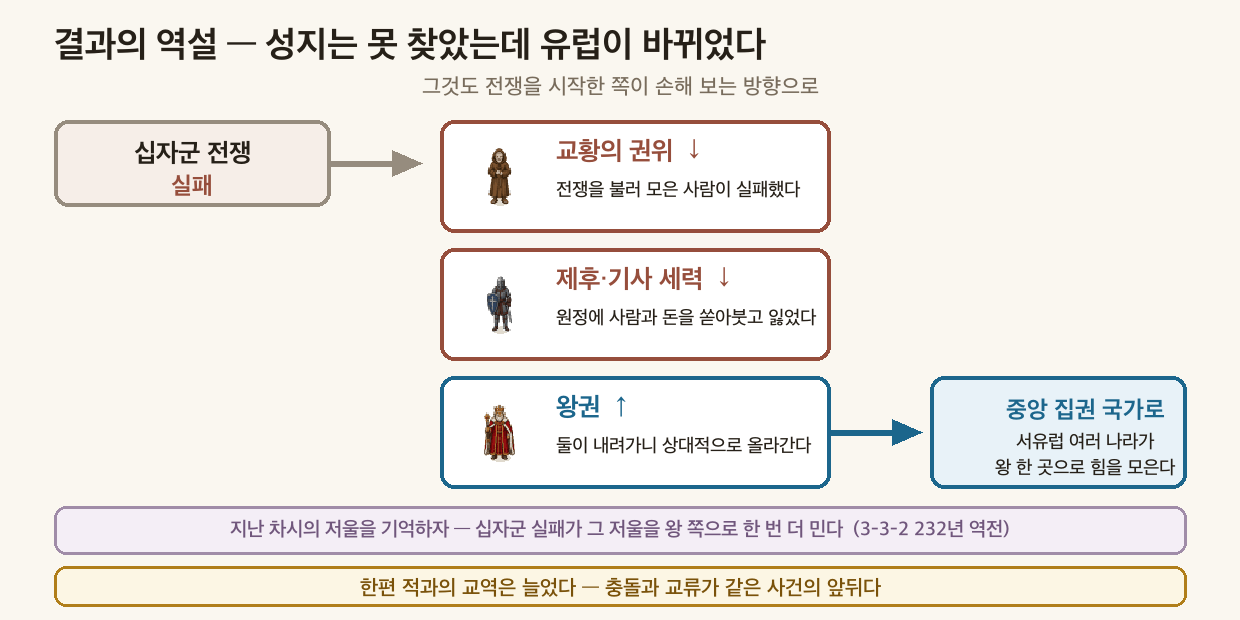
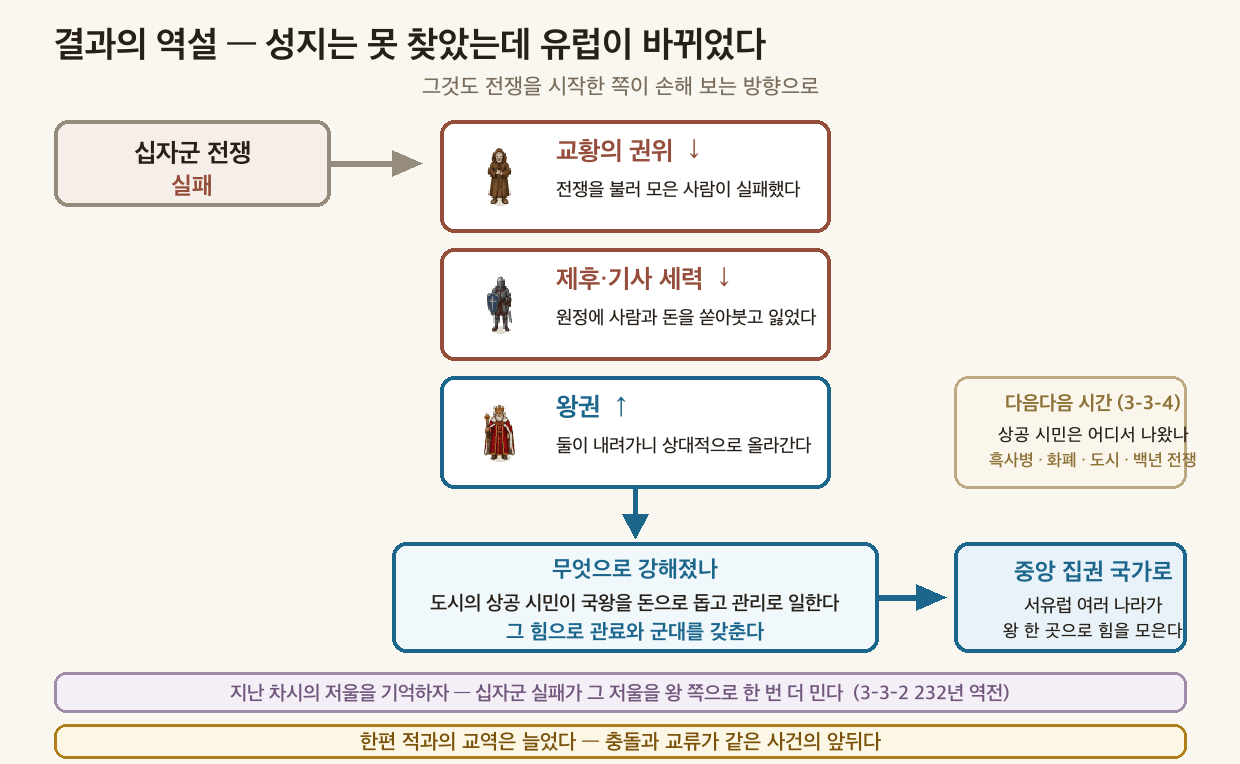
3-3-3 — 4단계 OX 콜아웃 제거 · 5단계 「무엇으로 강해졌나」 신설 (천대현)
■ 4단계 ⚠ OX 단골을 학생 지면에서 뺐다
바로 아래 교과서 슬롯이 "제1차 원정 때의 결과와 전쟁이 끝났을 때의 결과를 각각
찾아 적자"인데 ⚠가 그 답을 먼저 말해 버렸다. 9/11에 슬롯을 신설하면서 이
콜아웃을 그대로 둔 것이 겹침의 원인이다.
→ 교사는 함정을 알되 먼저 말하지 않는다. 학생이 두 결과를 갈라 적은 뒤에 짚는다.
   정답편에는 유지(교사용)하고 "먼저 말하지 말 것"을 명시.

■ 5단계 도식에 「무엇으로 강해졌나」 칸 신설
종전 도식은 왕권 ↑의 설명이 "둘이 내려가니 상대적으로 올라간다" 뿐이었다.
학생은 "그래서 무엇으로" 강해졌는지 모른 채 넘어간다.
R3 = 교과서 p.100 "새롭게 성장한 도시 상공업자들은 국왕을 경제적으로 돕거나
관리로 일하며 세력을 키워 나갔다. 유럽 각국의 국왕은 이들의 지원에 힘입어
관료와 군대를 정비하며 왕권을 강화해 나갔다."
흐름도 고쳤다 — 왕권 → 무엇으로 → 중앙 집권 국가로 한 줄.

⚠ 3-3-4를 선취하지 않는다 — 그 차시가 "상공 시민은 어디서 나왔나"(흑사병·화폐·
   도시·백년 전쟁)를 맡는다. 도식 오른쪽에 「다음다음 시간 (3-3-4)」 예고 칸을
   따로 두어 선을 그었다. 여기서는 결과의 이름까지만.

제작 중 잡은 것 셋: PIL이 마크다운을 모르니 **별표**가 그대로 찍혔다 · 「🔜」가
AppleSDGothicNeo에 없어 두부(⊠)가 됐다 · 비율 0.623으로 상한 0.62를 넘었다(0.616으로).

실측: 셋 다 빈단계 0 · 입담빈 1 · 교과서빈 2 · 이미지 7 · 빈칸 6 · OX 3 · CSS 균형 0
학생본 OX 콜아웃 0건 · 정답편 유지 2건

Claude-Session: https://claude.ai/code/session_01WENst2cudxyR6rXxwWSCeM

Changed region(s): [[0.0306, 0.0306, 0.9806, 1.0]]

diff --git a/worksheets/3-3-3_십자군전쟁_개념편_명시형_정답.html b/worksheets/3-3-3_십자군전쟁_개념편_명시형_정답.html
@@ -977,6 +977,8 @@ table:has(.ox-group) td:first-child { width: 46px; text-align: center; color: #6
 <blockquote>🎙 <strong>200년이야.</strong> 한 번 싸우고 끝난 게 아니라, <strong>할아버지가 갔다가 손자가 또 가는</strong> 일이 여러 차례 되풀이됐어. 지금부터 200년 전이면 조선 시대야. 그런데 그 긴 싸움의 결말이 뭐였을까?</blockquote>
 <br>
 <blockquote>⚠ <strong>OX 2번의 함정이 여기 있다</strong> — <em>"제1차 원정에서 예루살렘을 되찾았으니 목적을 이룬 것"</em>이 아니다. 되찾았다가 <strong>다시 잃었고</strong>, 교과서는 <em>"결국 성지를 회복하지 못하고"</em>로 끝맺는다.</blockquote>
+<blockquote>🔴 <strong>2026-09-16 — 이 ⚠를 학생 지면에서 뺐다 (천대현).</strong> 바로 아래 교과서 슬롯이 <em>"제1차 원정 때의 결과와 전쟁이 끝났을 때의 결과를 각각 찾아 적자"</em>인데, <strong>⚠가 그 답을 먼저 말해 버렸다.</strong> 9/11에 슬롯을 신설하면서 이 콜아웃을 그대로 둔 것이 겹침의 원인이다.</blockquote>
+<blockquote>🎯 <strong>교사는 이 함정을 알고 있되 먼저 말하지 않는다</strong> — 학생이 두 결과를 갈라 적은 «뒤에» 짚는다. 먼저 말하면 자기 눈으로 모순을 보는 자리가 사라진다.</blockquote>
 <br>
 <div class="ws-tb"><div class="ws-tb-tag">📕 교과서 98쪽 · 가운데 문단</div><div class="ws-tb-ask"><strong>제1차 원정 때의 결과</strong>와 <strong>전쟁이 끝났을 때의 결과</strong>를 교과서 문장에서 각각 찾아 적자. 두 결과는 어떻게 다른가?</div></div>
 <blockquote><strong>답</strong>: 제1차 원정 — <em>"예루살렘을 점령하기도 하였다"</em> / 전쟁의 끝 — <em>"결국 성지를 회복하지 못하고 전쟁은 끝이 났다."</em> → <strong>한때 되찾았으나 끝내 지키지 못했다</strong>는 취지.</blockquote>
@@ -995,7 +997,12 @@ table:has(.ox-group) td:first-child { width: 46px; text-align: center; color: #6
 <p>전쟁이 끝나자 유럽 안의 힘의 균형이 바뀌었다. 전쟁을 이끈 ④<span class="blank-filled">교황</span>의 권위는 떨어졌고, 반면 ⑤<span class="blank-filled">왕</span>권은 상대적으로 강해져 서유럽 여러 나라가 <strong>중앙 집권 국가</strong>로 나아갔다.</p>
 <blockquote>(교과서 원문: "전쟁을 이끈 교황의 권위는 떨어졌고, 전쟁에 참여하였던 제후와 기사의 세력도 약해졌다. 반면, 왕권은 상대적으로 강해졌다." — 같은 책 p.98)</blockquote>
 <br>
-<figure class="ws-fig"><img src="images/3-3-3_결과의역설.png" alt="결과의 역설 — 십자군 실패 → 교황 권위 하락·제후와 기사 세력 약화 → 왕권 상대적 강화 → 중앙 집권 국가로." loading="lazy"><figcaption>결과의 역설 — 십자군 실패 → 교황 권위 하락·제후와 기사 세력 약화 → 왕권 상대적 강화 → 중앙 집권 국가로.</figcaption></figure>
+<figure class="ws-fig"><img src="images/3-3-3_결과의역설.png" alt="결과의 역설 — 왕권 ↑ 아래에 «무엇으로 강해졌나» 칸을 더했다." loading="lazy"><figcaption>결과의 역설 — 왕권 ↑ 아래에 «무엇으로 강해졌나» 칸을 더했다.</figcaption></figure>
+<blockquote>🔴 <strong>2026-09-16 「무엇으로 강해졌나」 칸 신설 (천대현)</strong> — 종전 도식은 왕권 ↑의 설명이 <em>"둘이 내려가니 상대적으로 올라간다"</em> 뿐이었다. <strong>학생은 «그래서 무엇으로» 강해졌는지 모른 채 넘어간다.</strong></blockquote>
+<blockquote><strong>R3 근거는 교과서 p.100이다</strong> — <em>"새롭게 성장한 도시 상공업자들은 국왕을 경제적으로 돕거나 관리로 일하며 세력을 키워 나갔다. 유럽 각국의 국왕은 이들의 지원에 힘입어 관료와 군대를 정비하며 왕권을 강화해 나갔다."</em> 도식에는 두 줄로 줄여 넣었다.</blockquote>
+<blockquote>⚠ <strong>3-3-4를 선취하지 않는다</strong> — 그 차시가 «상공 시민은 어디서 나왔나»(흑사병·화폐 경제·도시·백년 전쟁)를 통째로 맡는다. 도식 오른쪽 위에 <strong>「다음다음 시간 (3-3-4)」 예고 칸</strong>을 따로 두어 선을 그었다. 여기서는 <strong>결과의 이름까지만.</strong></blockquote>
+<blockquote>🧑🏫 <strong>읽히는 법</strong> — <em>"왕이 갑자기 세진 게 아니야. 돈을 대 준 사람들이 있었어. 그게 누구였을까?"</em> 로 열고, 답은 <strong>도시 상공 시민</strong>. 3-3-2에서 «자기 땅과 세금»으로 설명했던 그 «가진 힘»의 다음 단계다.</blockquote>
+<blockquote>⚠ 도식 비율 0.616(상한 0.62) · 「🔜」는 AppleSDGothicNeo에 없어 두부가 되므로 <strong>글자로</strong> 썼다.</blockquote>
 <br>
 <blockquote>🎯 <strong>🔴 이 대목은 종전에 </strong>코드블록<strong>(세 겹 백틱 펜스)으로 그려져 있었고 그 안에 빈칸 ④⑤가 박혀 있었다.</strong> 제작템플릿 §4-2 <strong>「코드블록 내부 금기」</strong> 위반이다 — 볼드·각주가 렌더되지 않고, 입력칸이 <strong>검은 배경</strong>에 박혀 학생이 <em>쓰는 곳</em>으로 못 읽는다. 2026-09-04에 도식으로 옮기고 빈칸은 본문 문장으로 내렸다.</blockquote>
 <blockquote>⚠ <strong>'상대적으로'를 반드시 짚을 것.</strong> 왕이 무언가를 잘해서 강해진 게 아니라 <strong>경쟁자 둘이 내려앉아서</strong> 올라간 것이다. 학생 다수가 <em>"왕이 전쟁에서 이겨서 강해졌다"</em>로 오해한다 — 왕은 이기지 않았다.</blockquote>

diff --git a/worksheets/3-3-3_십자군전쟁_개념편_정답.html b/worksheets/3-3-3_십자군전쟁_개념편_정답.html
@@ -977,6 +977,8 @@ table:has(.ox-group) td:first-child { width: 46px; text-align: center; color: #6
 <blockquote>🎙 <strong>200년이야.</strong> 한 번 싸우고 끝난 게 아니라, <strong>할아버지가 갔다가 손자가 또 가는</strong> 일이 여러 차례 되풀이됐어. 지금부터 200년 전이면 조선 시대야. 그런데 그 긴 싸움의 결말이 뭐였을까?</blockquote>
 <br>
 <blockquote>⚠ <strong>OX 2번의 함정이 여기 있다</strong> — <em>"제1차 원정에서 예루살렘을 되찾았으니 목적을 이룬 것"</em>이 아니다. 되찾았다가 <strong>다시 잃었고</strong>, 교과서는 <em>"결국 성지를 회복하지 못하고"</em>로 끝맺는다.</blockquote>
+<blockquote>🔴 <strong>2026-09-16 — 이 ⚠를 학생 지면에서 뺐다 (천대현).</strong> 바로 아래 교과서 슬롯이 <em>"제1차 원정 때의 결과와 전쟁이 끝났을 때의 결과를 각각 찾아 적자"</em>인데, <strong>⚠가 그 답을 먼저 말해 버렸다.</strong> 9/11에 슬롯을 신설하면서 이 콜아웃을 그대로 둔 것이 겹침의 원인이다.</blockquote>
+<blockquote>🎯 <strong>교사는 이 함정을 알고 있되 먼저 말하지 않는다</strong> — 학생이 두 결과를 갈라 적은 «뒤에» 짚는다. 먼저 말하면 자기 눈으로 모순을 보는 자리가 사라진다.</blockquote>
 <br>
 <div class="ws-tb"><div class="ws-tb-tag">📕 교과서 98쪽 · 가운데 문단</div><div class="ws-tb-ask"><strong>제1차 원정 때의 결과</strong>와 <strong>전쟁이 끝났을 때의 결과</strong>를 교과서 문장에서 각각 찾아 적자. 두 결과는 어떻게 다른가?</div></div>
 <blockquote><strong>답</strong>: 제1차 원정 — <em>"예루살렘을 점령하기도 하였다"</em> / 전쟁의 끝 — <em>"결국 성지를 회복하지 못하고 전쟁은 끝이 났다."</em> → <strong>한때 되찾았으나 끝내 지키지 못했다</strong>는 취지.</blockquote>
@@ -995,7 +997,12 @@ table:has(.ox-group) td:first-child { width: 46px; text-align: center; color: #6
 <p>전쟁이 끝나자 유럽 안의 힘의 균형이 바뀌었다. 전쟁을 이끈 ④<span class="blank-filled">교황</span>의 권위는 떨어졌고, 반면 ⑤<span class="blank-filled">왕</span>권은 상대적으로 강해져 서유럽 여러 나라가 <strong>중앙 집권 국가</strong>로 나아갔다.</p>
 <blockquote>(교과서 원문: "전쟁을 이끈 교황의 권위는 떨어졌고, 전쟁에 참여하였던 제후와 기사의 세력도 약해졌다. 반면, 왕권은 상대적으로 강해졌다." — 같은 책 p.98)</blockquote>
 <br>
-<figure class="ws-fig"><img src="images/3-3-3_결과의역설.png" alt="결과의 역설 — 십자군 실패 → 교황 권위 하락·제후와 기사 세력 약화 → 왕권 상대적 강화 → 중앙 집권 국가로." loading="lazy"><figcaption>결과의 역설 — 십자군 실패 → 교황 권위 하락·제후와 기사 세력 약화 → 왕권 상대적 강화 → 중앙 집권 국가로.</figcaption></figure>
+<figure class="ws-fig"><img src="images/3-3-3_결과의역설.png" alt="결과의 역설 — 왕권 ↑ 아래에 «무엇으로 강해졌나» 칸을 더했다." loading="lazy"><figcaption>결과의 역설 — 왕권 ↑ 아래에 «무엇으로 강해졌나» 칸을 더했다.</figcaption></figure>
+<blockquote>🔴 <strong>2026-09-16 「무엇으로 강해졌나」 칸 신설 (천대현)</strong> — 종전 도식은 왕권 ↑의 설명이 <em>"둘이 내려가니 상대적으로 올라간다"</em> 뿐이었다. <strong>학생은 «그래서 무엇으로» 강해졌는지 모른 채 넘어간다.</strong></blockquote>
+<blockquote><strong>R3 근거는 교과서 p.100이다</strong> — <em>"새롭게 성장한 도시 상공업자들은 국왕을 경제적으로 돕거나 관리로 일하며 세력을 키워 나갔다. 유럽 각국의 국왕은 이들의 지원에 힘입어 관료와 군대를 정비하며 왕권을 강화해 나갔다."</em> 도식에는 두 줄로 줄여 넣었다.</blockquote>
+<blockquote>⚠ <strong>3-3-4를 선취하지 않는다</strong> — 그 차시가 «상공 시민은 어디서 나왔나»(흑사병·화폐 경제·도시·백년 전쟁)를 통째로 맡는다. 도식 오른쪽 위에 <strong>「다음다음 시간 (3-3-4)」 예고 칸</strong>을 따로 두어 선을 그었다. 여기서는 <strong>결과의 이름까지만.</strong></blockquote>
+<blockquote>🧑🏫 <strong>읽히는 법</strong> — <em>"왕이 갑자기 세진 게 아니야. 돈을 대 준 사람들이 있었어. 그게 누구였을까?"</em> 로 열고, 답은 <strong>도시 상공 시민</strong>. 3-3-2에서 «자기 땅과 세금»으로 설명했던 그 «가진 힘»의 다음 단계다.</blockquote>
+<blockquote>⚠ 도식 비율 0.616(상한 0.62) · 「🔜」는 AppleSDGothicNeo에 없어 두부가 되므로 <strong>글자로</strong> 썼다.</blockquote>
 <br>
 <blockquote>🎯 <strong>🔴 이 대목은 종전에 </strong>코드블록<strong>(세 겹 백틱 펜스)으로 그려져 있었고 그 안에 빈칸 ④⑤가 박혀 있었다.</strong> 제작템플릿 §4-2 <strong>「코드블록 내부 금기」</strong> 위반이다 — 볼드·각주가 렌더되지 않고, 입력칸이 <strong>검은 배경</strong>에 박혀 학생이 <em>쓰는 곳</em>으로 못 읽는다. 2026-09-04에 도식으로 옮기고 빈칸은 본문 문장으로 내렸다.</blockquote>
 <blockquote>⚠ <strong>'상대적으로'를 반드시 짚을 것.</strong> 왕이 무언가를 잘해서 강해진 게 아니라 <strong>경쟁자 둘이 내려앉아서</strong> 올라간 것이다. 학생 다수가 <em>"왕이 전쟁에서 이겨서 강해졌다"</em>로 오해한다 — 왕은 이기지 않았다.</blockquote>

diff --git a/worksheets/3-3-3_십자군전쟁_개념편_탐구형_정답.html b/worksheets/3-3-3_십자군전쟁_개념편_탐구형_정답.html
@@ -977,6 +977,8 @@ table:has(.ox-group) td:first-child { width: 46px; text-align: center; color: #6
 <blockquote>🎙 <strong>200년이야.</strong> 한 번 싸우고 끝난 게 아니라, <strong>할아버지가 갔다가 손자가 또 가는</strong> 일이 여러 차례 되풀이됐어. 지금부터 200년 전이면 조선 시대야. 그런데 그 긴 싸움의 결말이 뭐였을까?</blockquote>
 <br>
 <blockquote>⚠ <strong>OX 2번의 함정이 여기 있다</strong> — <em>"제1차 원정에서 예루살렘을 되찾았으니 목적을 이룬 것"</em>이 아니다. 되찾았다가 <strong>다시 잃었고</strong>, 교과서는 <em>"결국 성지를 회복하지 못하고"</em>로 끝맺는다.</blockquote>
+<blockquote>🔴 <strong>2026-09-16 — 이 ⚠를 학생 지면에서 뺐다 (천대현).</strong> 바로 아래 교과서 슬롯이 <em>"제1차 원정 때의 결과와 전쟁이 끝났을 때의 결과를 각각 찾아 적자"</em>인데, <strong>⚠가 그 답을 먼저 말해 버렸다.</strong> 9/11에 슬롯을 신설하면서 이 콜아웃을 그대로 둔 것이 겹침의 원인이다.</blockquote>
+<blockquote>🎯 <strong>교사는 이 함정을 알고 있되 먼저 말하지 않는다</strong> — 학생이 두 결과를 갈라 적은 «뒤에» 짚는다. 먼저 말하면 자기 눈으로 모순을 보는 자리가 사라진다.</blockquote>
 <br>
 <div class="ws-tb"><div class="ws-tb-tag">📕 교과서 98쪽 · 가운데 문단</div><div class="ws-tb-ask"><strong>제1차 원정 때의 결과</strong>와 <strong>전쟁이 끝났을 때의 결과</strong>를 교과서 문장에서 각각 찾아 적자. 두 결과는 어떻게 다른가?</div></div>
 <blockquote><strong>답</strong>: 제1차 원정 — <em>"예루살렘을 점령하기도 하였다"</em> / 전쟁의 끝 — <em>"결국 성지를 회복하지 못하고 전쟁은 끝이 났다."</em> → <strong>한때 되찾았으나 끝내 지키지 못했다</strong>는 취지.</blockquote>
@@ -995,7 +997,12 @@ table:has(.ox-group) td:first-child { width: 46px; text-align: center; color: #6
 <p>전쟁이 끝나자 유럽 안의 힘의 균형이 바뀌었다. 전쟁을 이끈 ④<span class="blank-filled">교황</span>의 권위는 떨어졌고, 반면 ⑤<span class="blank-filled">왕</span>권은 상대적으로 강해져 서유럽 여러 나라가 <strong>중앙 집권 국가</strong>로 나아갔다.</p>
 <blockquote>(교과서 원문: "전쟁을 이끈 교황의 권위는 떨어졌고, 전쟁에 참여하였던 제후와 기사의 세력도 약해졌다. 반면, 왕권은 상대적으로 강해졌다." — 같은 책 p.98)</blockquote>
 <br>
-<figure class="ws-fig"><img src="images/3-3-3_결과의역설.png" alt="결과의 역설 — 십자군 실패 → 교황 권위 하락·제후와 기사 세력 약화 → 왕권 상대적 강화 → 중앙 집권 국가로." loading="lazy"><figcaption>결과의 역설 — 십자군 실패 → 교황 권위 하락·제후와 기사 세력 약화 → 왕권 상대적 강화 → 중앙 집권 국가로.</figcaption></figure>
+<figure class="ws-fig"><img src="images/3-3-3_결과의역설.png" alt="결과의 역설 — 왕권 ↑ 아래에 «무엇으로 강해졌나» 칸을 더했다." loading="lazy"><figcaption>결과의 역설 — 왕권 ↑ 아래에 «무엇으로 강해졌나» 칸을 더했다.</figcaption></figure>
+<blockquote>🔴 <strong>2026-09-16 「무엇으로 강해졌나」 칸 신설 (천대현)</strong> — 종전 도식은 왕권 ↑의 설명이 <em>"둘이 내려가니 상대적으로 올라간다"</em> 뿐이었다. <strong>학생은 «그래서 무엇으로» 강해졌는지 모른 채 넘어간다.</strong></blockquote>
+<blockquote><strong>R3 근거는 교과서 p.100이다</strong> — <em>"새롭게 성장한 도시 상공업자들은 국왕을 경제적으로 돕거나 관리로 일하며 세력을 키워 나갔다. 유럽 각국의 국왕은 이들의 지원에 힘입어 관료와 군대를 정비하며 왕권을 강화해 나갔다."</em> 도식에는 두 줄로 줄여 넣었다.</blockquote>
+<blockquote>⚠ <strong>3-3-4를 선취하지 않는다</strong> — 그 차시가 «상공 시민은 어디서 나왔나»(흑사병·화폐 경제·도시·백년 전쟁)를 통째로 맡는다. 도식 오른쪽 위에 <strong>「다음다음 시간 (3-3-4)」 예고 칸</strong>을 따로 두어 선을 그었다. 여기서는 <strong>결과의 이름까지만.</strong></blockquote>
+<blockquote>🧑🏫 <strong>읽히는 법</strong> — <em>"왕이 갑자기 세진 게 아니야. 돈을 대 준 사람들이 있었어. 그게 누구였을까?"</em> 로 열고, 답은 <strong>도시 상공 시민</strong>. 3-3-2에서 «자기 땅과 세금»으로 설명했던 그 «가진 힘»의 다음 단계다.</blockquote>
+<blockquote>⚠ 도식 비율 0.616(상한 0.62) · 「🔜」는 AppleSDGothicNeo에 없어 두부가 되므로 <strong>글자로</strong> 썼다.</blockquote>
 <br>
 <blockquote>🎯 <strong>🔴 이 대목은 종전에 </strong>코드블록<strong>(세 겹 백틱 펜스)으로 그려져 있었고 그 안에 빈칸 ④⑤가 박혀 있었다.</strong> 제작템플릿 §4-2 <strong>「코드블록 내부 금기」</strong> 위반이다 — 볼드·각주가 렌더되지 않고, 입력칸이 <strong>검은 배경</strong>에 박혀 학생이 <em>쓰는 곳</em>으로 못 읽는다. 2026-09-04에 도식으로 옮기고 빈칸은 본문 문장으로 내렸다.</blockquote>
 <blockquote>⚠ <strong>'상대적으로'를 반드시 짚을 것.</strong> 왕이 무언가를 잘해서 강해진 게 아니라 <strong>경쟁자 둘이 내려앉아서</strong> 올라간 것이다. 학생 다수가 <em>"왕이 전쟁에서 이겨서 강해졌다"</em>로 오해한다 — 왕은 이기지 않았다.</blockquote>

diff --git a/worksheets/3-3-3_십자군전쟁_개념편_탐구형.html b/worksheets/3-3-3_십자군전쟁_개념편_탐구형.html
@@ -960,8 +960,6 @@ table:has(.ox-group) td:first-child { width: 46px; text-align: center; color: #6
 <br>
 <blockquote>🎙 <strong>200년이야.</strong> 한 번 싸우고 끝난 게 아니라, <strong>할아버지가 갔다가 손자가 또 가는</strong> 일이 여러 차례 되풀이됐어. 지금부터 200년 전이면 조선 시대야 — 그만큼 긴 시간 동안 사람들은 계속 떠났고, 계속 돌아오지 못했어. 그런데 그 긴 싸움의 결말이 뭐였을까?</blockquote>
 <br>
-<blockquote>⚠ <strong>OX 단골</strong> — <em>"제1차 원정에서 예루살렘을 되찾았으니 목적을 이룬 것"</em>이 아니다. 되찾았다가 <strong>다시 잃었고</strong>, 교과서는 <em>"결국 성지를 회복하지 못하고"</em>로 끝맺는다.</blockquote>
-<br>
 <div class="ws-tb"><div class="ws-tb-tag">📕 교과서 98쪽 · 가운데 문단</div><div class="ws-tb-ask"><strong>제1차 원정 때의 결과</strong>와 <strong>전쟁이 끝났을 때의 결과</strong>를 교과서 문장에서 각각 찾아 적자. 한 문장 안에 두 결과가 같이 들어 있는데, 교과서는 왜 그렇게 썼을까? <input type="text" class="blank-input activity-input no-score" data-id="act-3" data-label="교과서 98쪽에서 찾기 — 제1차 원정 때의 결과와 전쟁이 끝났을 때의 결과를 교과서 문장에서" style="width:520px" placeholder=""></div></div>
 <br>
 <figure class="ws-fig"><img src="images/3-3-3_되찾았다가잃었다.png" alt="200여 년 — 제1차 원정에서 예루살렘을 점령했지만 다시 잃었고, 결국 성지를 회복하지 못했다." loading="lazy"><figcaption>200여 년 — 제1차 원정에서 예루살렘을 점령했지만 다시 잃었고, 결국 성지를 회복하지 못했다.</figcaption></figure>
@@ -973,7 +971,7 @@ table:has(.ox-group) td:first-child { width: 46px; text-align: center; color: #6
 <br>
 <p>전쟁이 끝나자 유럽 안의 힘의 균형이 바뀌었다. 전쟁을 이끈 ④<input type="text" class="blank-input" data-answer="교황" data-id="4" style="width:60px" placeholder="">의 권위는 떨어졌고, 반면 ⑤<input type="text" class="blank-input" data-answer="왕" data-id="5" style="width:60px" placeholder="">권은 상대적으로 강해져 서유럽 여러 나라가 <strong>중앙 집권 국가</strong>로 나아갔다.</p>
 <br>
-<figure class="ws-fig"><img src="images/3-3-3_결과의역설.png" alt="결과의 역설 — 십자군 실패 → 교황 권위 하락·제후와 기사 세력 약화 → 왕권 상대적 강화 → 중앙 집권 국가로. 3-3-2의 저울을 왕 쪽으로 한 번 더 민다." loading="lazy"><figcaption>결과의 역설 — 십자군 실패 → 교황 권위 하락·제후와 기사 세력 약화 → 왕권 상대적 강화 → 중앙 집권 국가로. 3-3-2의 저울을 왕 쪽으로 한 번 더 민다.</figcaption></figure>
+<figure class="ws-fig"><img src="images/3-3-3_결과의역설.png" alt="결과의 역설 — 십자군 실패 → 교황 권위 하락·제후와 기사 세력 약화 → 왕권 상대적 강화 → 중앙 집권 국가로. 그런데 왕은 **무엇으로** 강해졌을까 — 도시의 상공 시민이 국왕을 돈으로 돕고 관리로 일했고, 왕은 그 힘으로 **관료와 군대**를 갖췄다." loading="lazy"><figcaption>결과의 역설 — 십자군 실패 → 교황 권위 하락·제후와 기사 세력 약화 → 왕권 상대적 강화 → 중앙 집권 국가로. 그런데 왕은 <strong>무엇으로</strong> 강해졌을까 — 도시의 상공 시민이 국왕을 돈으로 돕고 관리로 일했고, 왕은 그 힘으로 <strong>관료와 군대</strong>를 갖췄다.</figcaption></figure>
 <br>
 <p><strong>한편 동쪽에서는</strong> — 셀주크 튀르크도 전쟁의 충격으로 수도를 옮겼고, 국력이 약해져 13세기 중반 몽골군의 침입으로 쇠퇴했다.</p>
 <br>

diff --git a/worksheets/3-3-3_십자군전쟁_개념편.html b/worksheets/3-3-3_십자군전쟁_개념편.html
@@ -962,8 +962,6 @@ table:has(.ox-group) td:first-child { width: 46px; text-align: center; color: #6
 <br>
 <blockquote>🎙 <strong>200년이야.</strong> 한 번 싸우고 끝난 게 아니라, <strong>할아버지가 갔다가 손자가 또 가는</strong> 일이 여러 차례 되풀이됐어. 지금부터 200년 전이면 조선 시대야 — 그만큼 긴 시간 동안 사람들은 계속 떠났고, 계속 돌아오지 못했어. 그런데 그 긴 싸움의 결말이 뭐였을까?</blockquote>
 <br>
-<blockquote>⚠ <strong>OX 단골</strong> — <em>"제1차 원정에서 예루살렘을 되찾았으니 목적을 이룬 것"</em>이 아니다. 되찾았다가 <strong>다시 잃었고</strong>, 교과서는 <em>"결국 성지를 회복하지 못하고"</em>로 끝맺는다.</blockquote>
-<br>
 <div class="ws-tb"><div class="ws-tb-tag">📕 교과서 98쪽 · 가운데 문단</div><div class="ws-tb-ask"><strong>제1차 원정 때의 결과</strong>와 <strong>전쟁이 끝났을 때의 결과</strong>를 교과서 문장에서 각각 찾아 적자. 두 결과는 어떻게 다른가? <input type="text" class="blank-input activity-input no-score" data-id="act-3" data-label="교과서 98쪽에서 찾기 — 제1차 원정 때의 결과와 전쟁이 끝났을 때의 결과를 교과서 문장에서" style="width:460px" placeholder=""></div></div>
 <br>
 <figure class="ws-fig"><img src="images/3-3-3_되찾았다가잃었다.png" alt="200여 년 — 제1차 원정에서 예루살렘을 점령했지만 다시 잃었고, 결국 성지를 회복하지 못했다." loading="lazy"><figcaption>200여 년 — 제1차 원정에서 예루살렘을 점령했지만 다시 잃었고, 결국 성지를 회복하지 못했다.</figcaption></figure>
@@ -975,7 +973,7 @@ table:has(.ox-group) td:first-child { width: 46px; text-align: center; color: #6
 <br>
 <p>전쟁이 끝나자 유럽 안의 힘의 균형이 바뀌었다. 전쟁을 이끈 ④<input type="text" class="blank-input" data-answer="교황" data-id="4" style="width:60px" placeholder="">의 권위는 떨어졌고, 반면 ⑤<input type="text" class="blank-input" data-answer="왕" data-id="5" style="width:60px" placeholder="">권은 상대적으로 강해져 서유럽 여러 나라가 <strong>중앙 집권 국가</strong>로 나아갔다.</p>
 <br>
-<figure class="ws-fig"><img src="images/3-3-3_결과의역설.png" alt="결과의 역설 — 십자군 실패 → 교황 권위 하락·제후와 기사 세력 약화 → 왕권 상대적 강화 → 중앙 집권 국가로. 3-3-2의 저울을 왕 쪽으로 한 번 더 민다." loading="lazy"><figcaption>결과의 역설 — 십자군 실패 → 교황 권위 하락·제후와 기사 세력 약화 → 왕권 상대적 강화 → 중앙 집권 국가로. 3-3-2의 저울을 왕 쪽으로 한 번 더 민다.</figcaption></figure>
+<figure class="ws-fig"><img src="images/3-3-3_결과의역설.png" alt="결과의 역설 — 십자군 실패 → 교황 권위 하락·제후와 기사 세력 약화 → 왕권 상대적 강화 → 중앙 집권 국가로. 그런데 왕은 **무엇으로** 강해졌을까 — 도시의 상공 시민이 국왕을 돈으로 돕고 관리로 일했고, 왕은 그 힘으로 **관료와 군대**를 갖췄다." loading="lazy"><figcaption>결과의 역설 — 십자군 실패 → 교황 권위 하락·제후와 기사 세력 약화 → 왕권 상대적 강화 → 중앙 집권 국가로. 그런데 왕은 <strong>무엇으로</strong> 강해졌을까 — 도시의 상공 시민이 국왕을 돈으로 돕고 관리로 일했고, 왕은 그 힘으로 <strong>관료와 군대</strong>를 갖췄다.</figcaption></figure>
 <br>
 <br>
 <p><strong>한편 동쪽에서는</strong> — 셀주크 튀르크도 전쟁의 충격으로 수도를 옮겼고, 국력이 약해져 13세기 중반 몽골군의 침입으로 쇠퇴했다.</p>

diff --git a/worksheets/3-3-3_십자군전쟁_개념편_명시형.html b/worksheets/3-3-3_십자군전쟁_개념편_명시형.html
@@ -969,8 +969,6 @@ table:has(.ox-group) td:first-child { width: 46px; text-align: center; color: #6
 <br>
 <blockquote>🎙 <strong>200년이야.</strong> 한 번 싸우고 끝난 게 아니라, <strong>할아버지가 갔다가 손자가 또 가는</strong> 일이 여러 차례 되풀이됐어. 지금부터 200년 전이면 조선 시대야 — 그만큼 긴 시간 동안 사람들은 계속 떠났고, 계속 돌아오지 못했어. 그런데 그 긴 싸움의 결말이 뭐였을까?</blockquote>
 <br>
-<blockquote>⚠ <strong>OX 단골</strong> — <em>"제1차 원정에서 예루살렘을 되찾았으니 목적을 이룬 것"</em>이 아니다. 되찾았다가 <strong>다시 잃었고</strong>, 교과서는 <em>"결국 성지를 회복하지 못하고"</em>로 끝맺는다.</blockquote>
-<br>
 <div class="ws-tb"><div class="ws-tb-tag">📕 교과서 98쪽 · 가운데 문단</div><div class="ws-tb-ask">교과서 문장에서 두 곳을 찾아 적자. <strong>① 제1차 원정 때는 어떻게 되었나</strong> · <strong>② 전쟁이 끝났을 때는 어떻게 되었나</strong> <input type="text" class="blank-input activity-input no-score" data-id="act-3" data-label="교과서 98쪽에서 찾기 — 교과서 문장에서 두 곳을 찾아 적자. ① 제1차 원정 때는 어떻게 되" style="width:460px" placeholder=""></div></div>
 <br>
 <figure class="ws-fig"><img src="images/3-3-3_되찾았다가잃었다.png" alt="200여 년 — 제1차 원정에서 예루살렘을 점령했지만 다시 잃었고, 결국 성지를 회복하지 못했다." loading="lazy"><figcaption>200여 년 — 제1차 원정에서 예루살렘을 점령했지만 다시 잃었고, 결국 성지를 회복하지 못했다.</figcaption></figure>
@@ -984,7 +982,7 @@ table:has(.ox-group) td:first-child { width: 46px; text-align: center; color: #6
 <br>
 <blockquote>🧭 <strong>④⑤ 보기:</strong> 교황 · 왕 — 이 중에서 골라 쓰자.</blockquote>
 <br>
-<figure class="ws-fig"><img src="images/3-3-3_결과의역설.png" alt="결과의 역설 — 십자군 실패 → 교황 권위 하락·제후와 기사 세력 약화 → 왕권 상대적 강화 → 중앙 집권 국가로. 3-3-2의 저울을 왕 쪽으로 한 번 더 민다." loading="lazy"><figcaption>결과의 역설 — 십자군 실패 → 교황 권위 하락·제후와 기사 세력 약화 → 왕권 상대적 강화 → 중앙 집권 국가로. 3-3-2의 저울을 왕 쪽으로 한 번 더 민다.</figcaption></figure>
+<figure class="ws-fig"><img src="images/3-3-3_결과의역설.png" alt="결과의 역설 — 십자군 실패 → 교황 권위 하락·제후와 기사 세력 약화 → 왕권 상대적 강화 → 중앙 집권 국가로. 그런데 왕은 **무엇으로** 강해졌을까 — 도시의 상공 시민이 국왕을 돈으로 돕고 관리로 일했고, 왕은 그 힘으로 **관료와 군대**를 갖췄다." loading="lazy"><figcaption>결과의 역설 — 십자군 실패 → 교황 권위 하락·제후와 기사 세력 약화 → 왕권 상대적 강화 → 중앙 집권 국가로. 그런데 왕은 <strong>무엇으로</strong> 강해졌을까 — 도시의 상공 시민이 국왕을 돈으로 돕고 관리로 일했고, 왕은 그 힘으로 <strong>관료와 군대</strong>를 갖췄다.</figcaption></figure>
 <br>
 <p><strong>한편 동쪽에서는</strong> — 셀주크 튀르크도 전쟁의 충격으로 수도를 옮겼고, 국력이 약해져 13세기 중반 몽골군의 침입으로 쇠퇴했다.</p>
 <br>
